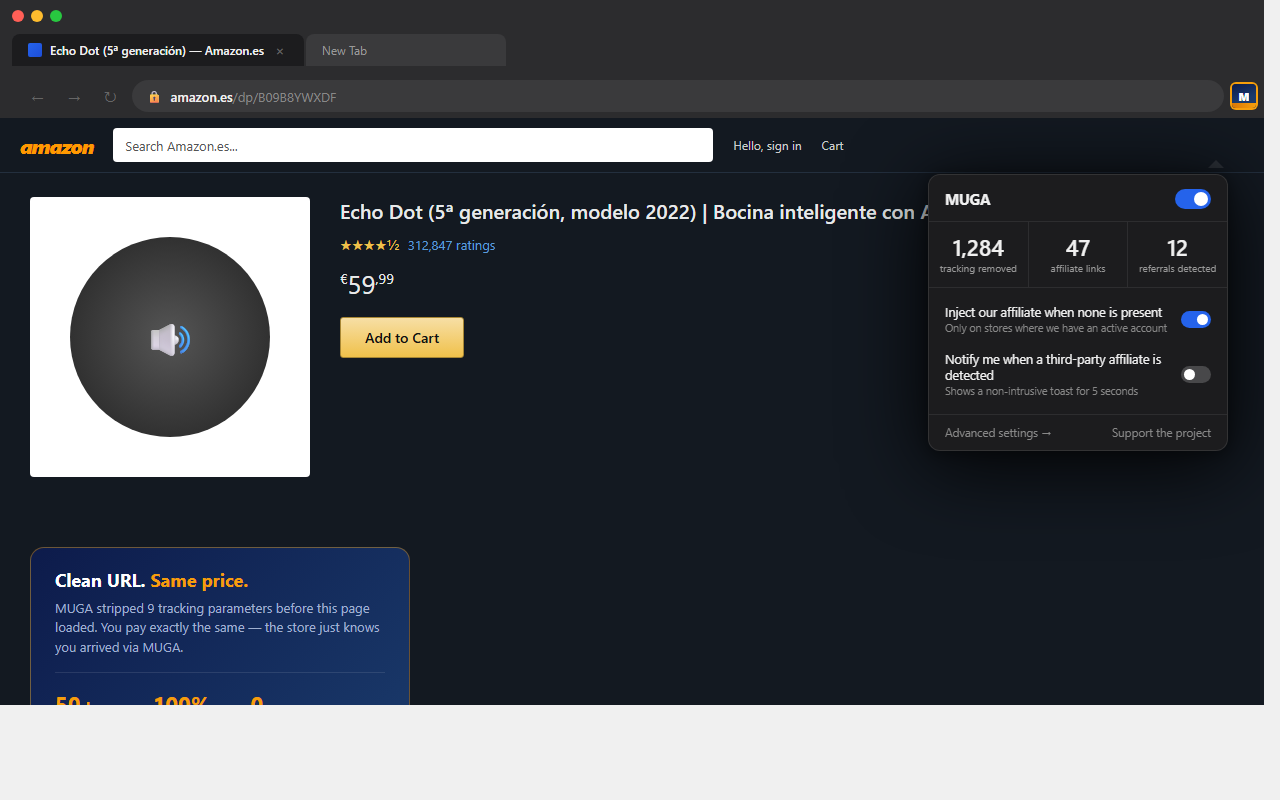
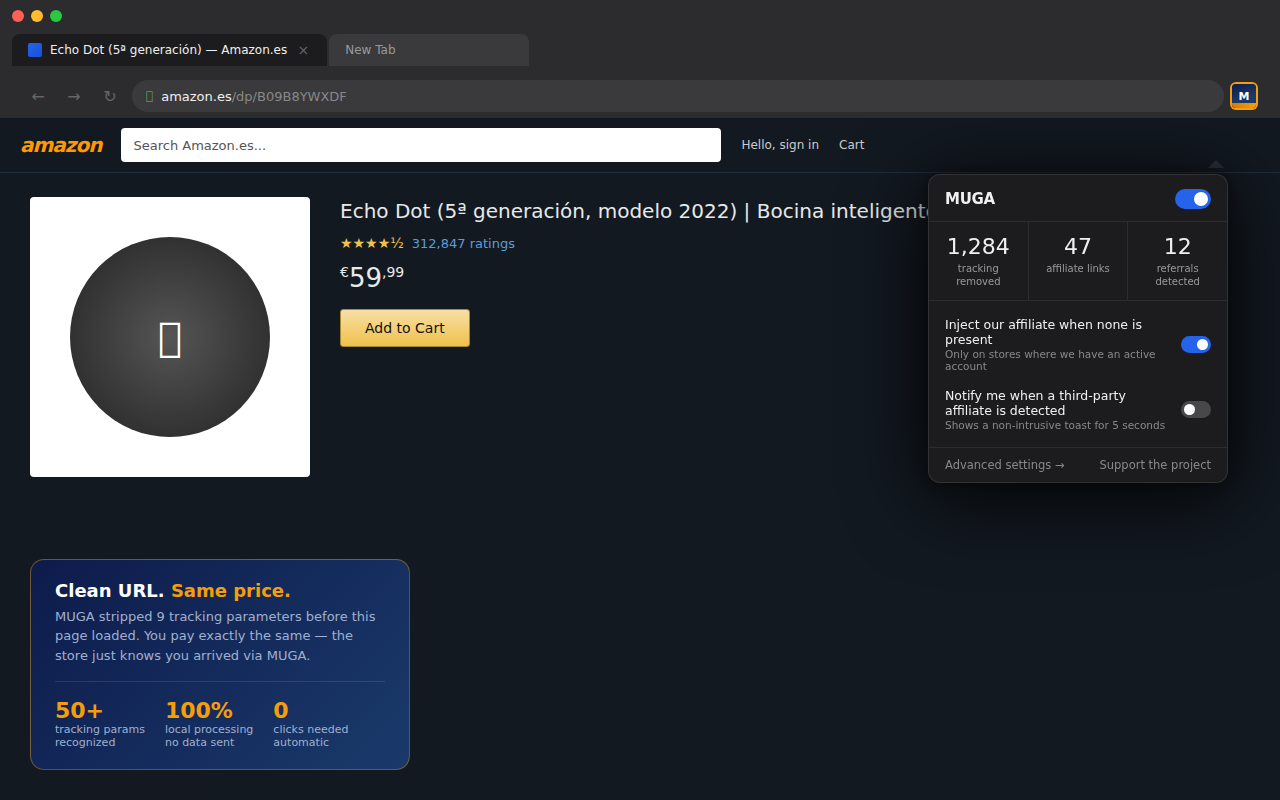
feat: onboarding i18n (EN/ES) + updated screenshots for launch (#263) (#264)
Onboarding:
- Full EN/ES internationalization of onboarding wizard (~21 strings)
- Inline OB_STRINGS dictionary (same pattern as content/cleaner.js)
- Language detection via storage preference + navigator.language fallback
- data-i18n / data-i18n-html attributes on all user-visible elements
- HTML lang attribute updated dynamically
- ob_* keys added to shared i18n.js for reference consistency

Screenshots (recaptured with v1.6.0 UI via Playwright):
- README: ss1 before/after, ss2 popup, ss3 options, ss4 onboarding
- CWS: ss1 popup, ss2 before/after, ss3 options, ss4 toast, ss5 context menu
- Promo small tile (440x280) added to docs/assets/

diff --git a/src/onboarding/onboarding.js b/src/onboarding/onboarding.js
@@ -6,14 +6,112 @@
  *   - Affiliate opt-in (optional — activates injectOwnAffiliate if checked)
  *
  * On "Get started": saves consent metadata + prefs, then closes the tab.
+ *
+ * i18n: inline dictionary (same approach as content/cleaner.js).
+ * Cannot import from lib/i18n.js because this script runs as a classic script.
  */
 
 const CONSENT_VERSION = "1.0";
 
+// ---------------------------------------------------------------------------
+// i18n — Onboarding strings (EN / ES)
+// ---------------------------------------------------------------------------
+const OB_STRINGS = {
+  ob_page_title:            { en: "Welcome to MUGA",                                                         es: "Bienvenido a MUGA" },
+  ob_tagline:               { en: "Make URLs Great Again.",                                                   es: "Haz que las URLs vuelvan a ser geniales." },
+  ob_tagline_sub:           { en: "Here's exactly what this extension does — and what it never will.",        es: "Esto es exactamente lo que hace esta extensión — y lo que nunca hará." },
+  ob_tagline_local:         { en: "Everything runs locally in your browser. No data is sent to any server.",  es: "Todo se ejecuta en tu navegador. No se envía ningún dato a ningún servidor." },
+
+  ob_step1_title:           { en: "Always on — no configuration needed",                                      es: "Siempre activo — sin configuración" },
+  ob_feat1_title:           { en: "Strips 130+ tracking parameters automatically",                            es: "Elimina más de 130 parámetros de rastreo automáticamente" },
+  ob_feat1_desc:            { en: "UTMs, fbclid, gclid, msclkid, mc_cid, si (YouTube), eBay tracking tags, and more — removed before the page loads.", es: "UTMs, fbclid, gclid, msclkid, mc_cid, si (YouTube), tags de rastreo de eBay y más — eliminados antes de que cargue la página." },
+  ob_feat2_title:           { en: "Redirects Google AMP pages to the real article",                            es: "Redirige páginas AMP de Google al artículo real" },
+  ob_feat2_desc:            { en: "AMP URLs are silently redirected to the canonical article so you always land on the actual site.", es: "Las URLs AMP se redirigen silenciosamente al artículo original para que siempre llegues al sitio real." },
+  ob_feat3_title:           { en: "Blocks <a ping> tracking beacons",                                         es: "Bloquea balizas de rastreo <a ping>" },
+  ob_feat3_desc:            { en: "Prevents the hidden ping requests advertisers use to log every link you click.", es: "Impide las peticiones ocultas que los anunciantes usan para registrar cada enlace que pulsas." },
+  ob_feat4_title:           { en: "Unwraps redirect-wrapper URLs",                                            es: "Desenvuelve URLs con redireccionadores" },
+  ob_feat4_desc:            { en: "Extracts the real destination from tracking wrappers so you go straight to the target page.", es: "Extrae el destino real de los redireccionadores para que vayas directamente a la página de destino." },
+  ob_feat5_title:           { en: "Right-click → Copy clean link",                                            es: "Clic derecho → Copiar enlace limpio" },
+  ob_feat5_desc:            { en: "Copies the cleaned URL to your clipboard without navigating anywhere.",     es: "Copia la URL limpia al portapapeles sin navegar a ningún sitio." },
+
+  ob_step2_title:           { en: "How MUGA stays free — your choice",                                        es: "Cómo MUGA se mantiene gratis — tú decides" },
+  ob_affiliate_desc:        { en: 'When you visit a supported store (Amazon, Booking.com, AliExpress\u2026) and the link has <strong>no affiliate tag at all</strong>, MUGA can silently add ours. <strong>The price you pay is always identical</strong> \u2014 affiliate tags don\u2019t affect what you pay, they tell the store who referred you. We earn a small commission.<br><br>This is how we keep MUGA free and actively maintained.', es: 'Cuando visitas una tienda compatible (Amazon, Booking.com, AliExpress\u2026) y el enlace <strong>no tiene ningún tag de afiliado</strong>, MUGA puede añadir el nuestro silenciosamente. <strong>El precio que pagas es siempre el mismo</strong> \u2014 los tags de afiliado no afectan lo que pagas, solo indican a la tienda quién te refirió. Nosotros ganamos una pequeña comisión.<br><br>Así es como mantenemos MUGA gratis y en desarrollo activo.' },
+  ob_disclaimer:            { en: '<strong>What MUGA never does:</strong> replace or overwrite a tag that is already in a link. If a creator\u2019s or another affiliate\u2019s tag is there, MUGA leaves it alone. This is the exact opposite of what <a href="https://en.wikipedia.org/wiki/Honey_(browser_extension)" target="_blank">Honey did</a>. MUGA only acts on links that have <em>no tag at all</em>. The source code is public \u2014 you can verify this yourself.', es: '<strong>Lo que MUGA nunca hace:</strong> reemplazar o sobreescribir un tag que ya existe en un enlace. Si el tag de un creador u otro afiliado ya está ahí, MUGA lo deja intacto. Esto es exactamente lo opuesto a lo que <a href="https://en.wikipedia.org/wiki/Honey_(browser_extension)" target="_blank">hizo Honey</a>. MUGA solo actúa en enlaces que <em>no tienen ningún tag</em>. El código fuente es público \u2014 puedes comprobarlo tú mismo.' },
+  ob_affiliate_check_label: { en: "Yes, support MUGA for free — allow our affiliate tag on links that have none", es: "Sí, apoya a MUGA gratis — permitir nuestro tag de afiliado en enlaces sin ninguno" },
+  ob_affiliate_check_hint:  { en: "You always pay the same price. You can disable this in Settings at any time.", es: "Siempre pagas el mismo precio. Puedes desactivarlo en Ajustes en cualquier momento." },
+
+  ob_tos_label:             { en: 'I have read and accept the <a href="../privacy/tos.html" target="_blank">Terms of use</a> and <a href="../privacy/privacy.html" target="_blank">Privacy policy</a><small style="display:block;color:var(--text2);margin-top:3px">Required to continue</small>', es: 'He leído y acepto los <a href="../privacy/tos.html" target="_blank">Términos de uso</a> y la <a href="../privacy/privacy.html" target="_blank">Política de privacidad</a><small style="display:block;color:var(--text2);margin-top:3px">Obligatorio para continuar</small>' },
+
+  ob_cta_btn:               { en: "Get started →",                                                            es: "Empezar →" },
+  ob_cta_note:              { en: "You can change all of this later in Settings at any time.",                 es: "Puedes cambiar todo esto más tarde en Ajustes en cualquier momento." },
+};
+
+// Keys whose values contain safe HTML (<strong>, <a>, <br>, <em>, <small>).
+const OB_HTML_KEYS = new Set([
+  "ob_affiliate_desc", "ob_disclaimer", "ob_tos_label",
+]);
+
+/**
+ * Detects the user's preferred language (storage override → browser default).
+ * Returns "es" or "en".
+ */
+function detectLang(callback) {
+  const browserLang = (navigator.language || "en").startsWith("es") ? "es" : "en";
+  try {
+    chrome.storage.sync.get({ language: null }, (r) => {
+      callback(r.language ?? browserLang);
+    });
+  } catch (_) {
+    // chrome.storage may not be available in testing environments
+    callback(browserLang);
+  }
+}
+
+/**
+ * Applies onboarding translations to all [data-i18n] and [data-i18n-html]
+ * elements, plus updates <html lang> and <title>.
+ */
+function applyOnboardingI18n(lang) {
+  // Update <html lang="">
+  document.documentElement.lang = lang;
+
+  // [data-i18n] → textContent
+  document.querySelectorAll("[data-i18n]").forEach(el => {
+    const key = el.getAttribute("data-i18n");
+    const entry = OB_STRINGS[key];
+    if (!entry) return;
+    const value = entry[lang] ?? entry["en"] ?? key;
+    if (el.tagName === "TITLE") {
+      document.title = value;
+    } else {
+      el.textContent = value;
+    }
+  });
+
+  // [data-i18n-html] → innerHTML (only for known safe keys)
+  document.querySelectorAll("[data-i18n-html]").forEach(el => {
+    const key = el.getAttribute("data-i18n-html");
+    const entry = OB_STRINGS[key];
+    if (!entry) return;
+    const value = entry[lang] ?? entry["en"] ?? key;
+    if (OB_HTML_KEYS.has(key)) {
+      el.innerHTML = value;
+    } else {
+      el.textContent = value;
+    }
+  });
+}
+
+// ---------------------------------------------------------------------------
+// Main
+// ---------------------------------------------------------------------------
 document.addEventListener("DOMContentLoaded", () => {
   const tosCheck       = document.getElementById("tos-check");
   const affiliateCheck = document.getElementById("affiliate-check");
   const startBtn       = document.getElementById("start-btn");
+
+  // Apply translations as soon as the language is resolved
+  detectLang(applyOnboardingI18n);
 
   function updateButton() {
     startBtn.disabled = !tosCheck.checked;

diff --git a/src/onboarding/onboarding.html b/src/onboarding/onboarding.html
@@ -3,7 +3,7 @@
 <head>
   <meta charset="UTF-8">
   <meta name="viewport" content="width=device-width, initial-scale=1.0">
-  <title>Welcome to MUGA</title>
+  <title data-i18n="ob_page_title">Welcome to MUGA</title>
   <style>
     :root {
       --bg: #fff; --bg2: #f7f7f7; --border: rgba(0,0,0,0.08);
@@ -132,48 +132,52 @@
 <body>
   <div class="container">
     <div class="logo">MUGA</div>
-    <p class="tagline">Make URLs Great Again.<br>Here's exactly what this extension does — and what it never will.<br><small style="font-size:12px;color:var(--text2)">Everything runs locally in your browser. No data is sent to any server.</small></p>
+    <p class="tagline">
+      <span data-i18n="ob_tagline">Make URLs Great Again.</span><br>
+      <span data-i18n="ob_tagline_sub">Here's exactly what this extension does — and what it never will.</span><br>
+      <small style="font-size:12px;color:var(--text2)" data-i18n="ob_tagline_local">Everything runs locally in your browser. No data is sent to any server.</small>
+    </p>
 
     <!-- Step 1: What MUGA always does -->
     <div class="step">
       <div class="step-header">
         <div class="step-num">1</div>
-        <div class="step-title">Always on — no configuration needed</div>
+        <div class="step-title" data-i18n="ob_step1_title">Always on — no configuration needed</div>
       </div>
       <div class="step-body">
         <div class="feature-row">
           <div class="feature-icon">🧹</div>
           <div class="feature-text">
-            <strong>Strips 130+ tracking parameters automatically</strong>
-            <small>UTMs, fbclid, gclid, msclkid, mc_cid, si (YouTube), eBay tracking tags, and more — removed before the page loads.</small>
+            <strong data-i18n="ob_feat1_title">Strips 130+ tracking parameters automatically</strong>
+            <small data-i18n="ob_feat1_desc">UTMs, fbclid, gclid, msclkid, mc_cid, si (YouTube), eBay tracking tags, and more — removed before the page loads.</small>
           </div>
         </div>
         <div class="feature-row">
           <div class="feature-icon">⚡</div>
           <div class="feature-text">
-            <strong>Redirects Google AMP pages to the real article</strong>
-            <small>AMP URLs are silently redirected to the canonical article so you always land on the actual site.</small>
+            <strong data-i18n="ob_feat2_title">Redirects Google AMP pages to the real article</strong>
+            <small data-i18n="ob_feat2_desc">AMP URLs are silently redirected to the canonical article so you always land on the actual site.</small>
           </div>
         </div>
         <div class="feature-row">
           <div class="feature-icon">🚫</div>
           <div class="feature-text">
-            <strong>Blocks &lt;a ping&gt; tracking beacons</strong>
-            <small>Prevents the hidden ping requests advertisers use to log every link you click.</small>
+            <strong data-i18n="ob_feat3_title">Blocks &lt;a ping&gt; tracking beacons</strong>
+            <small data-i18n="ob_feat3_desc">Prevents the hidden ping requests advertisers use to log every link you click.</small>
           </div>
         </div>
         <div class="feature-row">
           <div class="feature-icon">🔗</div>
           <div class="feature-text">
-            <strong>Unwraps redirect-wrapper URLs</strong>
-            <small>Extracts the real destination from tracking wrappers so you go straight to the target page.</small>
+            <strong data-i18n="ob_feat4_title">Unwraps redirect-wrapper URLs</strong>
+            <small data-i18n="ob_feat4_desc">Extracts the real destination from tracking wrappers so you go straight to the target page.</small>
           </div>
         </div>
         <div class="feature-row">
           <div class="feature-icon">📋</div>
           <div class="feature-text">
-            <strong>Right-click → Copy clean link</strong>
-            <small>Copies the cleaned URL to your clipboard without navigating anywhere.</small>
+            <strong data-i18n="ob_feat5_title">Right-click → Copy clean link</strong>
+            <small data-i18n="ob_feat5_desc">Copies the cleaned URL to your clipboard without navigating anywhere.</small>
           </div>
         </div>
       </div>
@@ -183,10 +187,10 @@
     <div class="step">
       <div class="step-header">
         <div class="step-num">2</div>
-        <div class="step-title">How MUGA stays free — your choice</div>
+        <div class="step-title" data-i18n="ob_step2_title">How MUGA stays free — your choice</div>
       </div>
       <div class="affiliate-body">
-        <p>
+        <p data-i18n-html="ob_affiliate_desc">
           When you visit a supported store (Amazon, Booking.com, AliExpress…) and the link
           has <strong>no affiliate tag at all</strong>, MUGA can silently add ours.
           <strong>The price you pay is always identical</strong> — affiliate tags don't affect
@@ -194,7 +198,7 @@
           <br><br>
           This is how we keep MUGA free and actively maintained.
         </p>
-        <div class="disclaimer">
+        <div class="disclaimer" data-i18n-html="ob_disclaimer">
           <strong>What MUGA never does:</strong> replace or overwrite a tag that is already
           in a link. If a creator's or another affiliate's tag is there, MUGA leaves it alone.
           This is the exact opposite of what
@@ -205,8 +209,8 @@
         <label class="consent-check" id="affiliate-label">
           <input type="checkbox" id="affiliate-check">
           <div class="consent-check-label">
-            <strong>Yes, support MUGA for free — allow our affiliate tag on links that have none</strong>
-            <small>You always pay the same price. You can disable this in Settings at any time.</small>
+            <strong data-i18n="ob_affiliate_check_label">Yes, support MUGA for free — allow our affiliate tag on links that have none</strong>
+            <small data-i18n="ob_affiliate_check_hint">You always pay the same price. You can disable this in Settings at any time.</small>
           </div>
         </label>
       </div>
@@ -216,7 +220,7 @@
     <div class="tos-section">
       <label class="tos-check" id="tos-label">
         <input type="checkbox" id="tos-check">
-        <div class="tos-check-label">
+        <div class="tos-check-label" data-i18n-html="ob_tos_label">
           I have read and accept the
           <a href="../privacy/tos.html" target="_blank">Terms of use</a>
           and
@@ -228,8 +232,8 @@
 
     <!-- CTA -->
     <div class="cta">
-      <button class="btn-primary" id="start-btn" disabled>Get started →</button>
-      <p class="cta-note">You can change all of this later in Settings at any time.</p>
+      <button class="btn-primary" id="start-btn" disabled data-i18n="ob_cta_btn">Get started →</button>
+      <p class="cta-note" data-i18n="ob_cta_note">You can change all of this later in Settings at any time.</p>
     </div>
   </div>
 

diff --git a/src/lib/i18n.js b/src/lib/i18n.js
@@ -134,6 +134,28 @@ export const TRANSLATIONS = {
   toast_block:   { en: "Block", es: "Bloquear" },
   toast_ours:    { en: "Use ours", es: "Usar el nuestro" },
   toast_dismiss: { en: "Dismiss", es: "Descartar" },
+
+  // ── Onboarding ──────────────────────────────────────────────────────────
+  ob_page_title:            { en: "Welcome to MUGA",                                                         es: "Bienvenido a MUGA" },
+  ob_tagline:               { en: "Make URLs Great Again.",                                                   es: "Haz que las URLs vuelvan a ser geniales." },
+  ob_tagline_sub:           { en: "Here's exactly what this extension does — and what it never will.",        es: "Esto es exactamente lo que hace esta extensión — y lo que nunca hará." },
+  ob_tagline_local:         { en: "Everything runs locally in your browser. No data is sent to any server.",  es: "Todo se ejecuta en tu navegador. No se envía ningún dato a ningún servidor." },
+  ob_step1_title:           { en: "Always on — no configuration needed",                                      es: "Siempre activo — sin configuración" },
+  ob_feat1_title:           { en: "Strips 130+ tracking parameters automatically",                            es: "Elimina más de 130 parámetros de rastreo automáticamente" },
+  ob_feat1_desc:            { en: "UTMs, fbclid, gclid, msclkid, mc_cid, si (YouTube), eBay tracking tags, and more — removed before the page loads.", es: "UTMs, fbclid, gclid, msclkid, mc_cid, si (YouTube), tags de rastreo de eBay y más — eliminados antes de que cargue la página." },
+  ob_feat2_title:           { en: "Redirects Google AMP pages to the real article",                            es: "Redirige páginas AMP de Google al artículo real" },
+  ob_feat2_desc:            { en: "AMP URLs are silently redirected to the canonical article so you always land on the actual site.", es: "Las URLs AMP se redirigen silenciosamente al artículo original para que siempre llegues al sitio real." },
+  ob_feat3_title:           { en: "Blocks <a ping> tracking beacons",                                         es: "Bloquea balizas de rastreo <a ping>" },
+  ob_feat3_desc:            { en: "Prevents the hidden ping requests advertisers use to log every link you click.", es: "Impide las peticiones ocultas que los anunciantes usan para registrar cada enlace que pulsas." },
+  ob_feat4_title:           { en: "Unwraps redirect-wrapper URLs",                                            es: "Desenvuelve URLs con redireccionadores" },
+  ob_feat4_desc:            { en: "Extracts the real destination from tracking wrappers so you go straight to the target page.", es: "Extrae el destino real de los redireccionadores para que vayas directamente a la página de destino." },
+  ob_feat5_title:           { en: "Right-click → Copy clean link",                                            es: "Clic derecho → Copiar enlace limpio" },
+  ob_feat5_desc:            { en: "Copies the cleaned URL to your clipboard without navigating anywhere.",     es: "Copia la URL limpia al portapapeles sin navegar a ningún sitio." },
+  ob_step2_title:           { en: "How MUGA stays free — your choice",                                        es: "Cómo MUGA se mantiene gratis — tú decides" },
+  ob_affiliate_check_label: { en: "Yes, support MUGA for free — allow our affiliate tag on links that have none", es: "Sí, apoya a MUGA gratis — permitir nuestro tag de afiliado en enlaces sin ninguno" },
+  ob_affiliate_check_hint:  { en: "You always pay the same price. You can disable this in Settings at any time.", es: "Siempre pagas el mismo precio. Puedes desactivarlo en Ajustes en cualquier momento." },
+  ob_cta_btn:               { en: "Get started →",                                                            es: "Empezar →" },
+  ob_cta_note:              { en: "You can change all of this later in Settings at any time.",                 es: "Puedes cambiar todo esto más tarde en Ajustes en cualquier momento." },
 };
 
 /**
